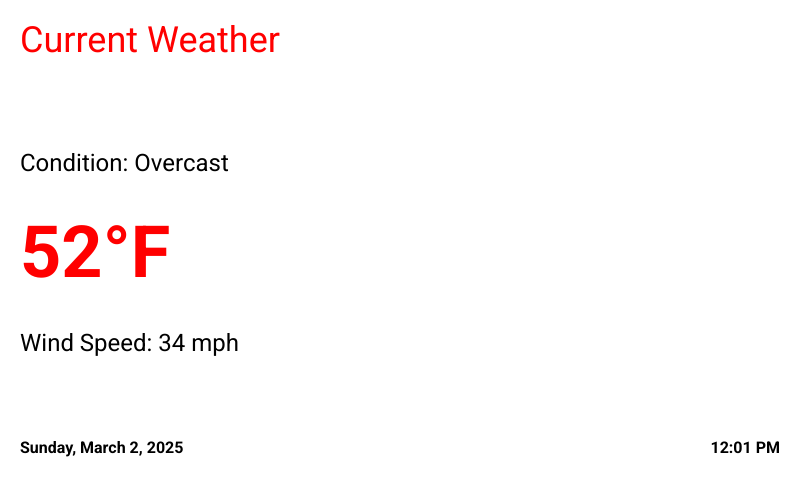
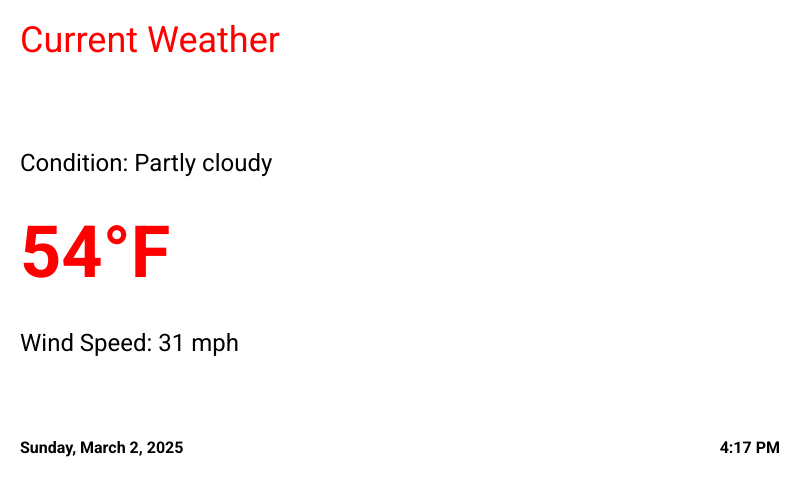
adds button and rotary knob support along with ability to cycle through frames

diff --git a/fetch_and_display_image.py b/fetch_and_display_image.py
@@ -1,10 +1,41 @@
+import json
 import requests
 import time
 from send_to_display import send_image_to_display
 
-def fetch_image():
-    start_time = time.time()
-    url = "https://michaelwschultz-generateframeimage.web.val.run?frame=weather&generate=image"
+STATE_FILE = "state.json"
+
+# Must list all frames here
+FRAME_STATES = ["weather", "hemolog"]
+
+START_TIME = time.time()
+
+def get_current_state():
+    # Read the last displayed state from the file.
+    try:
+        with open(STATE_FILE, "r") as file:
+            data = json.load(file)
+            return data.get("last_displayed", 0) # 0 is a default incase last_displayed is missing
+    except (FileNotFoundError, json.JSONDecodeError):
+        return 0  # Default state if file doesn't exist
+
+def set_next_state(current_state):
+    # Determine the next state and update the file
+    next_state = current_state + 1 if current_state + 1 < len(FRAME_STATES) else 0
+
+    with open(STATE_FILE, "w") as file:
+        json.dump({"last_displayed": next_state}, file)
+
+    return next_state
+
+def display_image(image_type):
+    # Simulate displaying the image (replace with actual display code).
+    print(f"Displaying {image_type} image...")
+    subprocess.run(["python", "send_image_to_display.py"])  # Replace with actual display script
+
+
+def fetch_image(next_state):
+    url = f"https://michaelwschultz-generateframeimage.web.val.run?frame={FRAME_STATES[next_state]}&generate=image"
     output_path = "images/fetched-image.png"
 
     try:
@@ -14,7 +45,7 @@ def fetch_image():
             with open(output_path, 'wb') as file:
                 for chunk in response.iter_content(1024):
                     file.write(chunk)
-                elapsed_time = time.time() - start_time
+                elapsed_time = time.time() - START_TIME
                 print(f"Image saved to {output_path}. Took {elapsed_time:.2f} seconds")
         else:
             print(f"Failed to fetch the image. Status code: {response.status_code}")
@@ -22,6 +53,13 @@ def fetch_image():
     except Exception as e:
         print(f"An error occurred: {e}")
 
-if __name__ == "__main__":
-    fetch_image()
+
+def main():
+    current_state = get_current_state()
+    next_state = set_next_state(current_state)
+    fetch_image(next_state)
     send_image_to_display()
+
+
+if __name__ == "__main__":
+    main()

diff --git a/rotary.py b/rotary.py
@@ -1,0 +1,46 @@
+import RPi.GPIO as GPIO
+import time
+import subprocess
+
+
+# GPIO Pins
+CLK = 31  # Clock pin
+DT = 37   # Data pin
+SW = 36    # Switch pin
+
+# Setup
+GPIO.setmode(GPIO.BOARD)
+GPIO.setup(CLK, GPIO.IN, pull_up_down=GPIO.PUD_UP)
+GPIO.setup(DT, GPIO.IN, pull_up_down=GPIO.PUD_UP)
+GPIO.setup(SW, GPIO.IN, pull_up_down=GPIO.PUD_UP)
+
+# Track last state of CLK
+last_clk_state = GPIO.input(CLK)
+
+def rotary_callback(channel):
+    global last_clk_state
+    clk_state = GPIO.input(CLK)
+    dt_state = GPIO.input(DT)
+
+    if clk_state != last_clk_state:  # Detect rotation
+        if dt_state != clk_state:
+            print("Rotated Clockwise")
+        else:
+            print("Rotated Counterclockwise")
+
+    last_clk_state = clk_state
+
+def button_callback(channel):
+    subprocess.run(["python", "fetch_and_display_image.py"])
+
+# Add event detection
+GPIO.add_event_detect(CLK, GPIO.BOTH, callback=rotary_callback, bouncetime=10)
+GPIO.add_event_detect(SW, GPIO.FALLING, callback=button_callback, bouncetime=200)
+
+try:
+    while True:
+        time.sleep(0.1)  # Keep the script running
+
+except KeyboardInterrupt:
+    print("\nExiting...")
+    GPIO.cleanup()

diff --git a/button.py b/button.py
@@ -1,0 +1,23 @@
+import RPi.GPIO as GPIO
+import time
+import subprocess
+
+# GPIO Pin for the button
+BUTTON_PIN = 36
+
+# Setup GPIO
+GPIO.setmode(GPIO.BOARD)
+GPIO.setup(BUTTON_PIN, GPIO.IN, pull_up_down=GPIO.PUD_UP)  # Enable pull-up resistor
+
+def button_callback(channel):
+    subprocess.run(["python", "fetch_and_display_image.py"])  # Run the external script
+
+# Add event detection for the button press
+GPIO.add_event_detect(BUTTON_PIN, GPIO.FALLING, callback=button_callback, bouncetime=300)
+
+try:
+    while True:
+        time.sleep(1)  # Keep the script running
+
+except KeyboardInterrupt:
+    GPIO.cleanup()

diff --git a/README.md b/README.md
@@ -1,7 +1,11 @@
 # Add startup process using pm2
 
-pm2 start display_image.py --no-autorestart --cron "0 7,19 * * *"
+pm2 start fetch_and_display_image.py --name fetch_and_display --no-autorestart --cron "0 7,19 * * *"
+pm2 save
 pm2 startup
+
+
+pm2 logs fetch_and_display
 
 3D print display&Pi holder 
 ![3d-model3](https://user-images.githubusercontent.com/85778625/137439738-7db5fb23-6876-4182-80c1-22562b4bd683.JPG)
